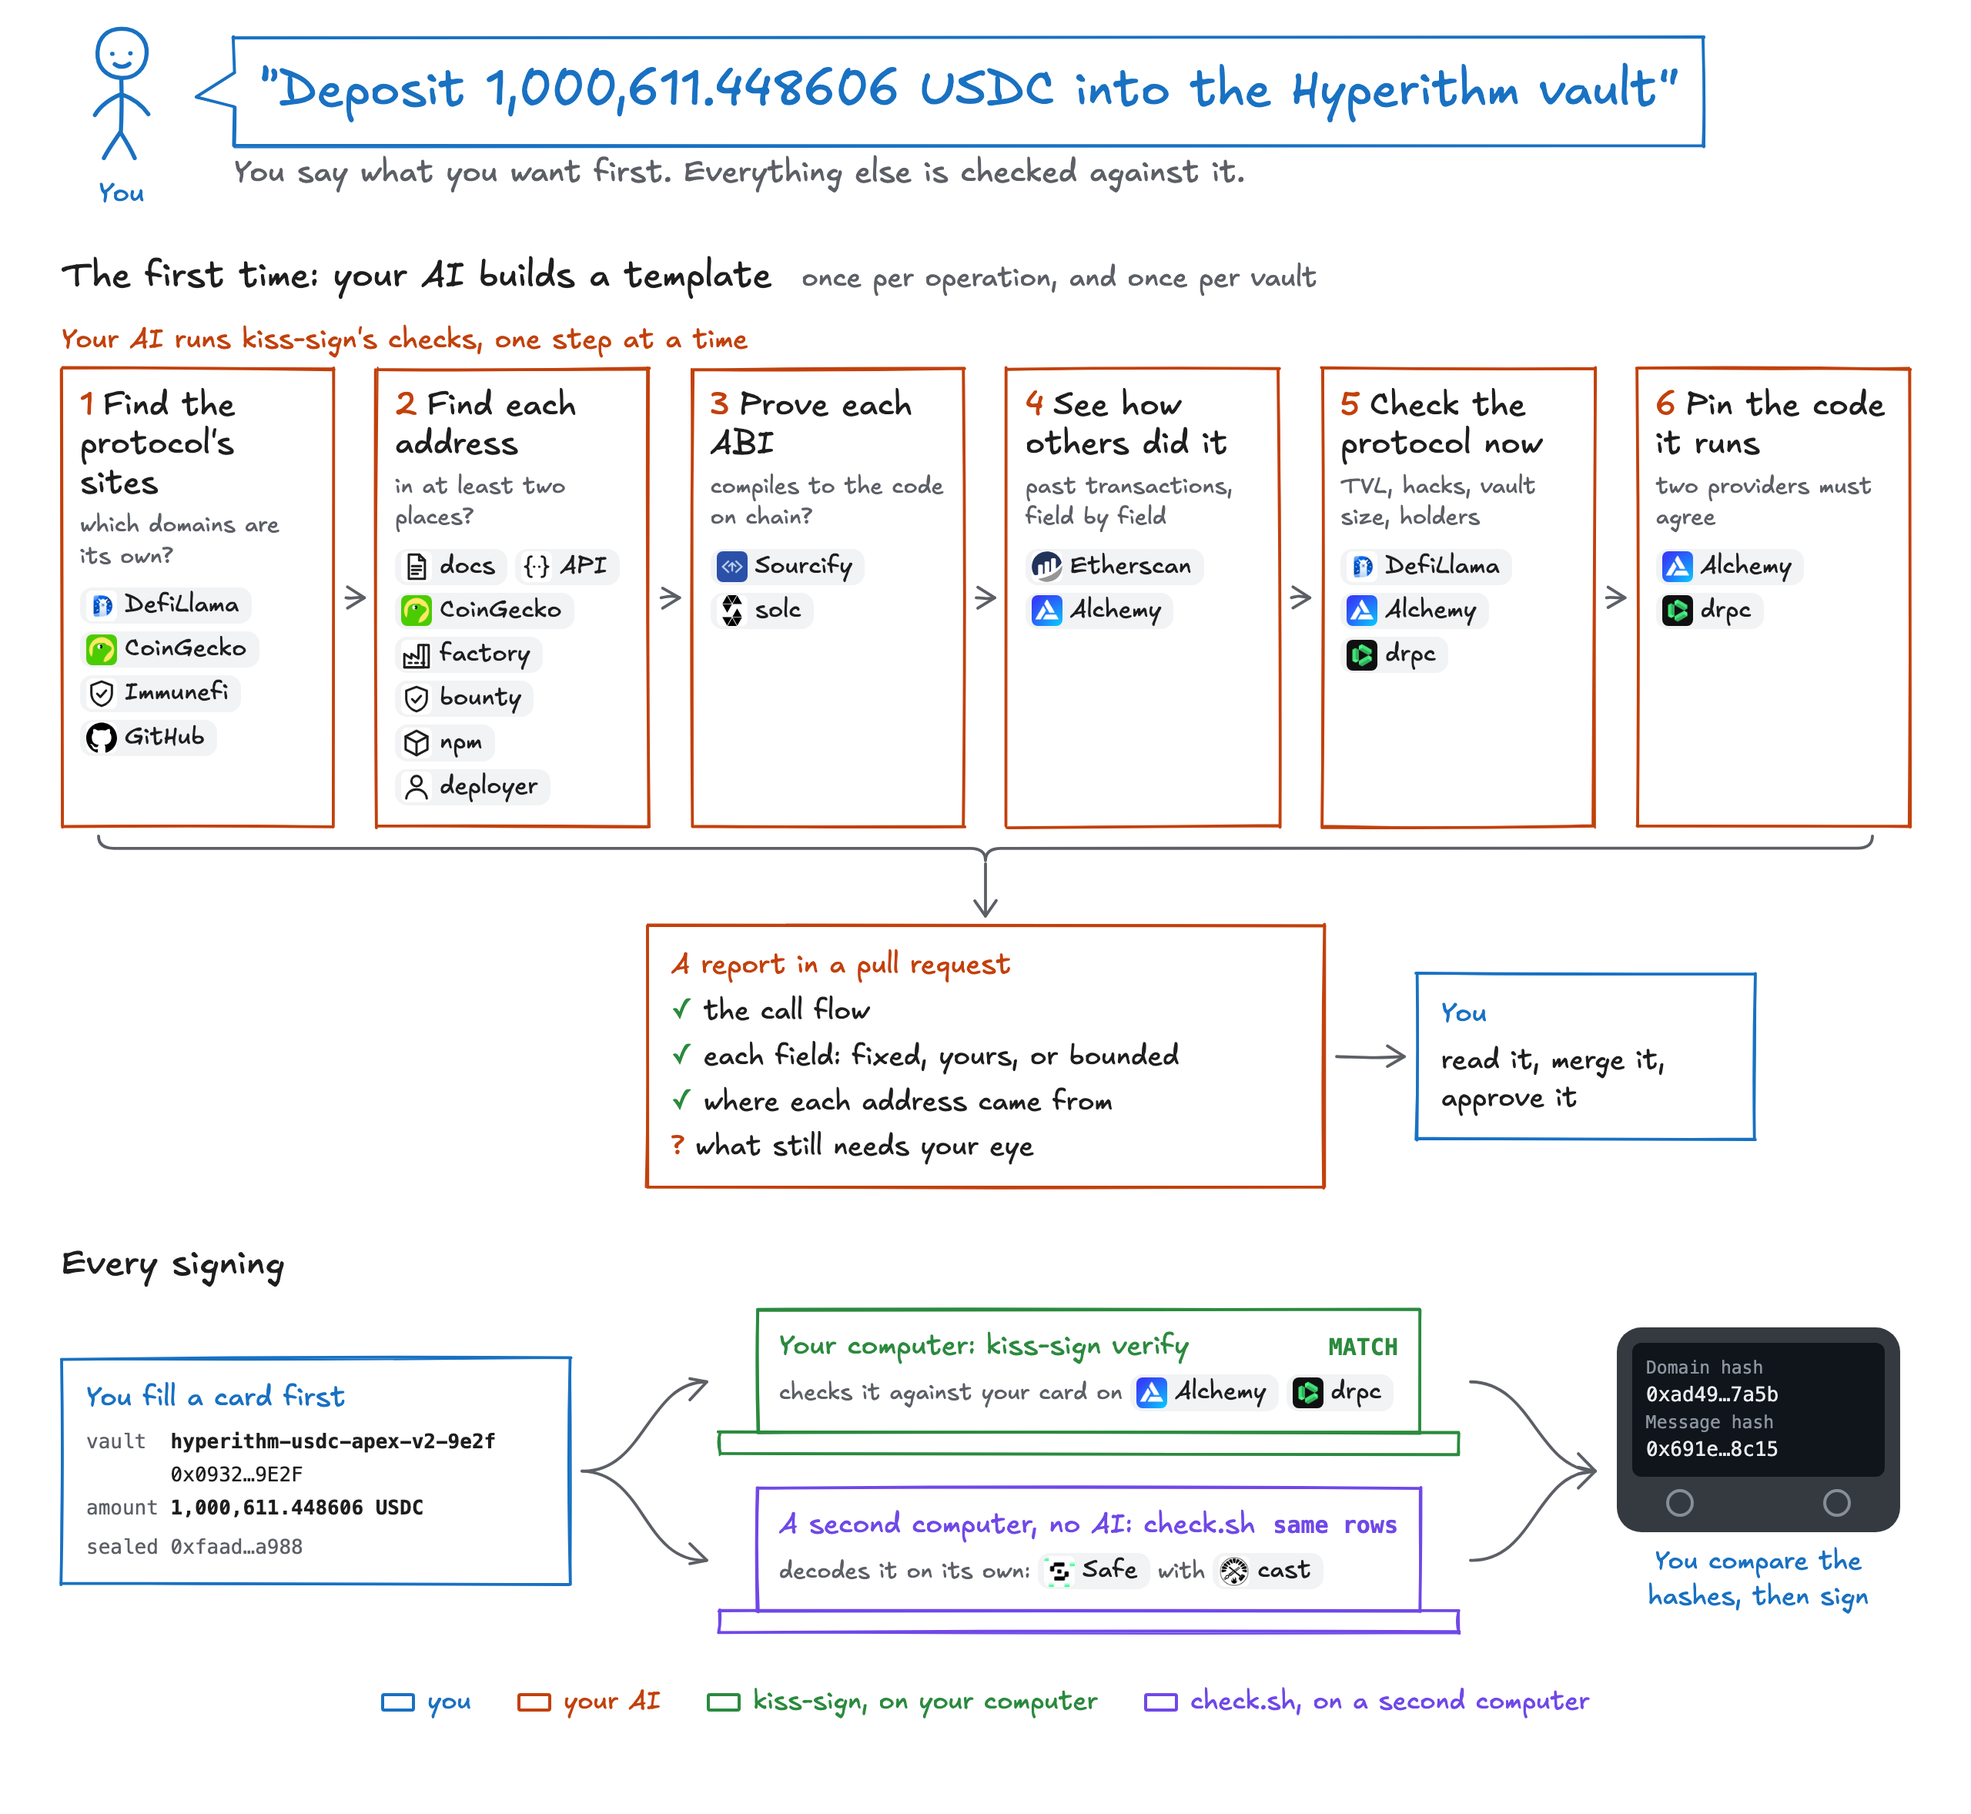
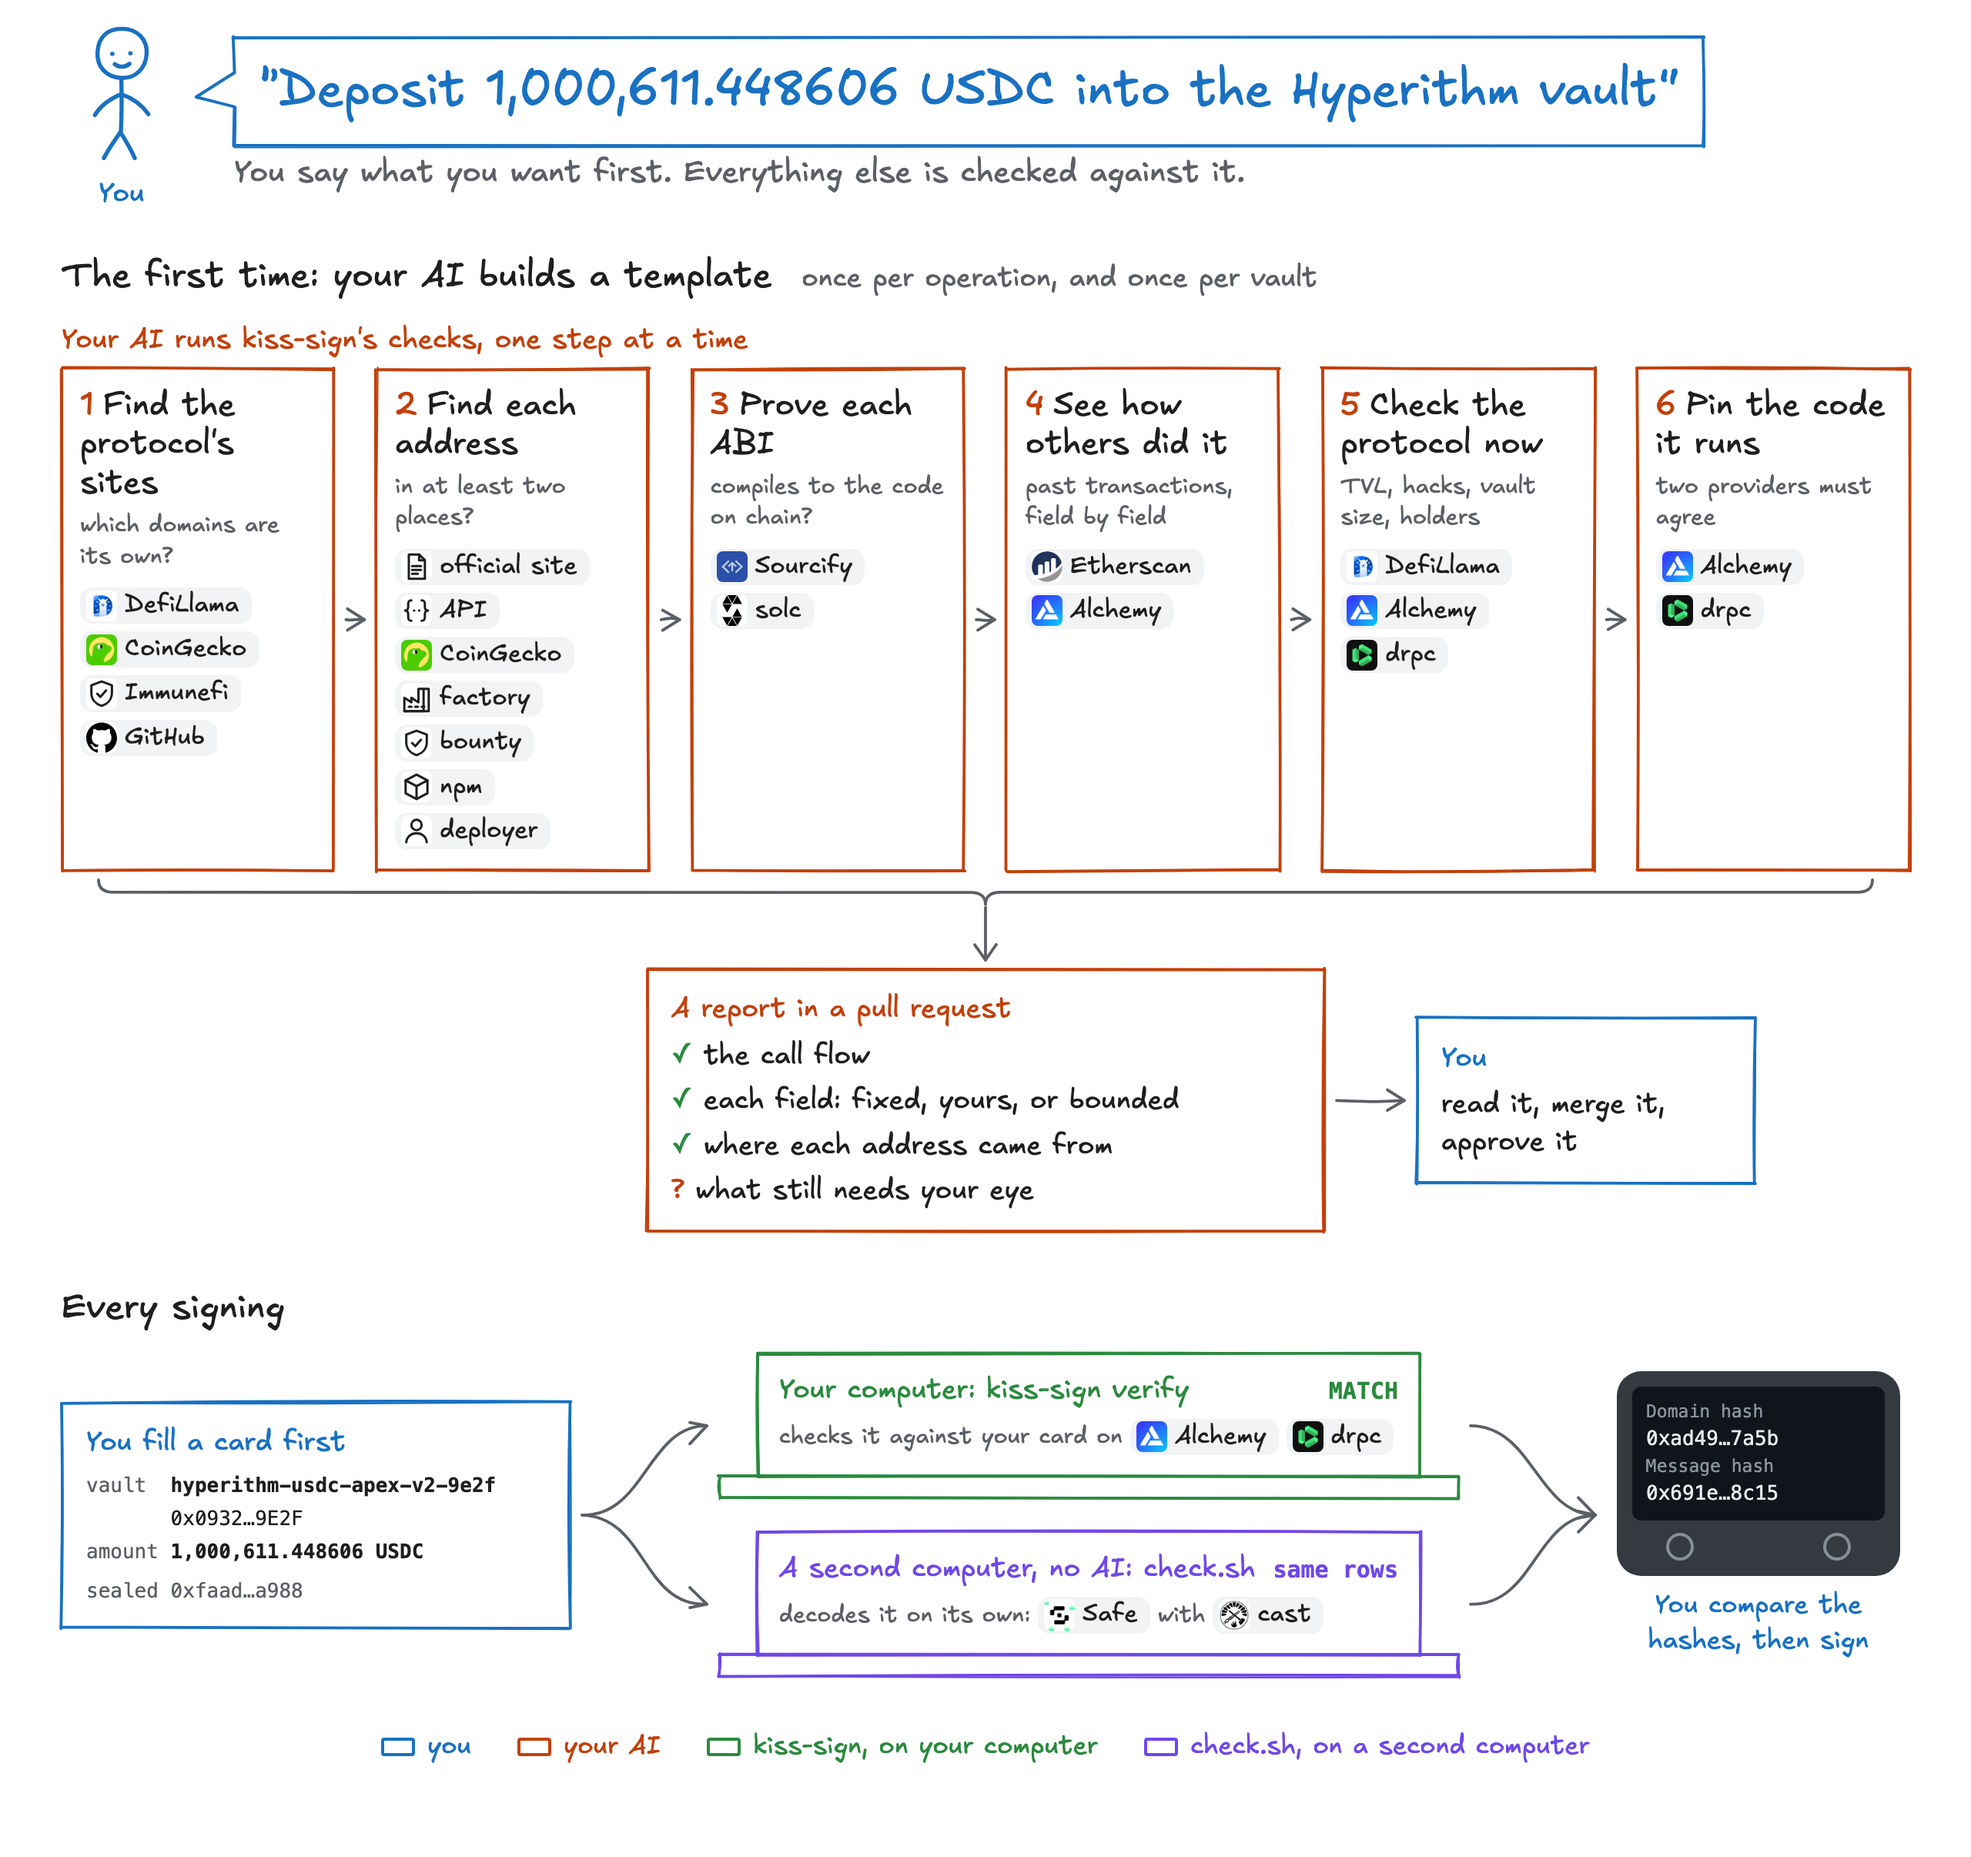
Label the address's pages official site, after step 1's sites

diff --git a/docs/diagrams/readme-overview.html b/docs/diagrams/readme-overview.html
@@ -110,7 +110,7 @@
     <div class="who">Your AI runs kiss-sign's checks, one step at a time</div>
     <div class="steps">
       <div class="sk step" id="s1"><div class="t"><span class="n">1</span>Find the protocol's sites</div><div class="note">which domains are its own?</div><div class="logos"><span class="lg"><img src="logos/defillama.jpg" alt="">DefiLlama</span><span class="lg"><img src="logos/coingecko.png" alt="">CoinGecko</span><span class="lg"><img class="mono-logo" src="logos/bounty.svg" alt="">Immunefi</span><span class="lg"><img class="mono-logo" src="logos/github.svg" alt="">GitHub</span></div></div>
-      <div class="sk step" id="s2"><div class="t"><span class="n">2</span>Find each address</div><div class="note">in at least two places?</div><div class="logos"><span class="lg"><img class="mono-logo" src="logos/docs.svg" alt="">docs</span><span class="lg"><img class="mono-logo" src="logos/api.svg" alt="">API</span><span class="lg"><img src="logos/coingecko.png" alt="">CoinGecko</span><span class="lg"><img class="mono-logo" src="logos/factory.svg" alt="">factory</span><span class="lg"><img class="mono-logo" src="logos/bounty.svg" alt="">bounty</span><span class="lg"><img class="mono-logo" src="logos/package.svg" alt="">npm</span><span class="lg"><img class="mono-logo" src="logos/deployer.svg" alt="">deployer</span></div></div>
+      <div class="sk step" id="s2"><div class="t"><span class="n">2</span>Find each address</div><div class="note">in at least two places?</div><div class="logos"><span class="lg"><img class="mono-logo" src="logos/docs.svg" alt="">official site</span><span class="lg"><img class="mono-logo" src="logos/api.svg" alt="">API</span><span class="lg"><img src="logos/coingecko.png" alt="">CoinGecko</span><span class="lg"><img class="mono-logo" src="logos/factory.svg" alt="">factory</span><span class="lg"><img class="mono-logo" src="logos/bounty.svg" alt="">bounty</span><span class="lg"><img class="mono-logo" src="logos/package.svg" alt="">npm</span><span class="lg"><img class="mono-logo" src="logos/deployer.svg" alt="">deployer</span></div></div>
       <div class="sk step" id="s3"><div class="t"><span class="n">3</span>Prove each ABI</div><div class="note">compiles to the code on chain?</div><div class="logos"><span class="lg"><img src="logos/sourcify.jpg" alt="">Sourcify</span><span class="lg"><img class="mono-logo" src="logos/solidity.svg" alt="">solc</span></div></div>
       <div class="sk step" id="s4"><div class="t"><span class="n">4</span>See how others did it</div><div class="note">past transactions, field by field</div><div class="logos"><span class="lg"><img src="logos/etherscan.svg" alt="">Etherscan</span><span class="lg"><img src="logos/alchemy.png" alt="">Alchemy</span></div></div>
       <div class="sk step" id="s5"><div class="t"><span class="n">5</span>Check the protocol now</div><div class="note">TVL, hacks, vault size, holders</div><div class="logos"><span class="lg"><img src="logos/defillama.jpg" alt="">DefiLlama</span><span class="lg"><img src="logos/alchemy.png" alt="">Alchemy</span><span class="lg"><img src="logos/drpc.png" alt="">drpc</span></div></div>
